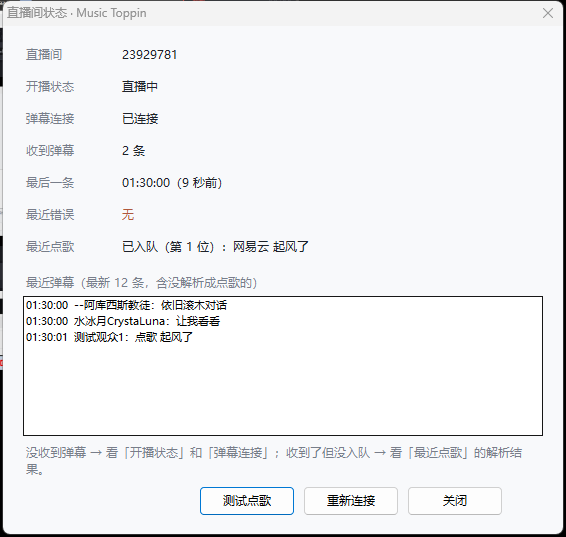
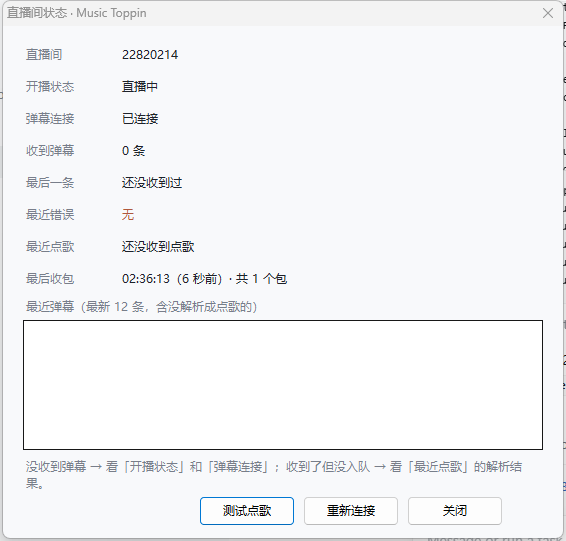
feat: 直播间状态显示最后收包/协议包数 + 命令类型日志（v1.2.2）
- LiveStatusForm 增加「最后收包」行（时间 + 距今年龄 + 协议包总数），区分假死连接和安静房间
- DanmakuClient 增加 PacketCount / LastPacketUtc
- 日志记录首次出现的弹幕命令类型（danmaku cmd: …），便于排查「已连接但收不到弹幕」
- 版本 1.2.2

diff --git a/src/MusicToppin/LiveStatusForm.cs b/src/MusicToppin/LiveStatusForm.cs
@@ -11,6 +11,8 @@ internal sealed class LiveStatusSnapshot
     public DateTime LastMessageUtc;
     public string LastError = "";
     public string LastRequestResult = "";
+    public DateTime LastPacketUtc;
+    public int PacketCount;
     public List<string> Recent = new List<string>();
 }
 
@@ -32,6 +34,7 @@ internal sealed class LiveStatusForm : Form
     private readonly Label _last;
     private readonly Label _error;
     private readonly Label _request;
+    private readonly Label _packet;
     private readonly ListBox _recent;
 
     private int _lastRecentCount = -1;
@@ -44,7 +47,7 @@ internal sealed class LiveStatusForm : Form
         _testPlay = testPlay;
 
         Text = "直播间状态 · Music Toppin";
-        ClientSize = new Size(560, 508);
+        ClientSize = new Size(560, 512);
         FormBorderStyle = FormBorderStyle.FixedDialog;
         MaximizeBox = false;
         MinimizeBox = false;
@@ -61,11 +64,12 @@ internal sealed class LiveStatusForm : Form
         _error = AddRow("最近错误", 5);
         _error.ForeColor = Color.FromArgb(176, 88, 60);
         _request = AddRow("最近点歌", 6);
+        _packet = AddRow("最后收包", 7);
 
         var recentLabel = new Label
         {
             Text = "最近弹幕（最新 12 条，含没解析成点歌的）",
-            Location = new Point(20, 248),
+            Location = new Point(20, 272),
             Size = new Size(480, 20),
             ForeColor = Color.FromArgb(120, 126, 138)
         };
@@ -73,8 +77,8 @@ internal sealed class LiveStatusForm : Form
 
         _recent = new ListBox
         {
-            Location = new Point(20, 270),
-            Size = new Size(520, 140),
+            Location = new Point(20, 294),
+            Size = new Size(520, 130),
             Font = new Font("Microsoft YaHei UI", 8.5f),
             BorderStyle = BorderStyle.FixedSingle,
             IntegralHeight = false
@@ -85,7 +89,7 @@ internal sealed class LiveStatusForm : Form
         {
             Text = "没收到弹幕 → 看「开播状态」和「弹幕连接」；收到了但没入队 → 看「最近点歌」的解析结果。\n" +
                    "「测试点歌」会在本地模拟发一条「点歌 起风了」，用来单独验证播放链路。",
-            Location = new Point(20, 418),
+            Location = new Point(20, 432),
             Size = new Size(520, 34),
             ForeColor = Color.FromArgb(120, 126, 138)
         };
@@ -94,7 +98,7 @@ internal sealed class LiveStatusForm : Form
         var test = new Button
         {
             Text = "测试点歌",
-            Location = new Point(196, 460),
+            Location = new Point(196, 470),
             Size = new Size(96, 30),
             FlatStyle = FlatStyle.System
         };
@@ -103,7 +107,7 @@ internal sealed class LiveStatusForm : Form
         var reconnectButton = new Button
         {
             Text = "重新连接",
-            Location = new Point(300, 460),
+            Location = new Point(300, 470),
             Size = new Size(96, 30),
             FlatStyle = FlatStyle.System
         };
@@ -112,7 +116,7 @@ internal sealed class LiveStatusForm : Form
         var close = new Button
         {
             Text = "关闭",
-            Location = new Point(404, 460),
+            Location = new Point(404, 470),
             Size = new Size(96, 30),
             FlatStyle = FlatStyle.System,
             DialogResult = DialogResult.Cancel
@@ -177,6 +181,16 @@ internal sealed class LiveStatusForm : Form
 
         _error.Text = string.IsNullOrWhiteSpace(s.LastError) ? "无" : s.LastError;
         _request.Text = string.IsNullOrWhiteSpace(s.LastRequestResult) ? "还没收到点歌" : s.LastRequestResult;
+
+        if (s.LastPacketUtc == DateTime.MinValue)
+        {
+            _packet.Text = "还没收到过";
+        }
+        else
+        {
+            var age = Math.Max(0, (int)(DateTime.UtcNow - s.LastPacketUtc).TotalSeconds);
+            _packet.Text = s.LastPacketUtc.ToLocalTime().ToString("HH:mm:ss") + "（" + age + " 秒前）· 共 " + s.PacketCount + " 个包";
+        }
 
         // 最近弹幕：只在变化时重建，避免每秒闪
         if (s.Recent.Count != _lastRecentCount)

diff --git a/src/MusicToppin/Danmaku.cs b/src/MusicToppin/Danmaku.cs
@@ -370,6 +370,12 @@ internal sealed class DanmakuClient : IDisposable
 
     /// <summary>最后收到任意协议包的时间（用来判断半开连接）。</summary>
     public DateTime LastPacketUtc { get; private set; }
+
+    /// <summary>收到的协议包总数（心跳/popularity 也算）。</summary>
+    public int PacketCount { get { return Volatile.Read(ref _packetCount); } }
+
+    private int _packetCount;
+    private readonly HashSet<string> _seenCommands = new HashSet<string>(StringComparer.Ordinal);
     public bool IsConnected { get { return _connected; } }
     public int MessageCount { get { return Volatile.Read(ref _messageCount); } }
     private int _generation;
@@ -559,6 +565,7 @@ internal sealed class DanmakuClient : IDisposable
                     if (result.Count <= 0) continue;
 
                     LastPacketUtc = DateTime.UtcNow;
+                    Interlocked.Increment(ref _packetCount);
                     for (var i = 0; i < result.Count; i++) pending.Add(buffer[i]);
 
                     DanmakuPacket packet;
@@ -731,7 +738,6 @@ internal sealed class DanmakuClient : IDisposable
         if (body == null || body.Length == 0) return;
 
         var text = Encoding.UTF8.GetString(body);
-        if (text.IndexOf("DANMU_MSG", StringComparison.Ordinal) < 0) return;
 
         JsonValue root;
         try
@@ -745,7 +751,16 @@ internal sealed class DanmakuClient : IDisposable
         }
 
         var message = DanmakuProtocol.ParseDanmaku(root);
-        if (message == null) return;
+        if (message == null)
+        {
+            // 记录出现过的命令类型，排查「连上了但收不到弹幕」
+            var cmd = root != null && root["cmd"] != null ? root["cmd"].AsString : "";
+            if (!string.IsNullOrEmpty(cmd) && _seenCommands.Add(cmd))
+            {
+                Logger.Write("danmaku cmd: " + cmd);
+            }
+            return;
+        }
 
         LastMessageUtc = DateTime.UtcNow;
         Interlocked.Increment(ref _messageCount);

diff --git a/src/MusicToppin/TrayApp.cs b/src/MusicToppin/TrayApp.cs
@@ -1498,6 +1498,8 @@ internal sealed class TrayApp : ApplicationContext
             Running = client != null && client.IsRunning,
             MessageCount = client != null ? client.MessageCount : 0,
             LastMessageUtc = client != null ? client.LastMessageUtc : DateTime.MinValue,
+            LastPacketUtc = client != null ? client.LastPacketUtc : DateTime.MinValue,
+            PacketCount = client != null ? client.PacketCount : 0,
             LastError = client != null ? client.LastError : "",
             LastRequestResult = _lastRequestResult,
             Recent = new List<string>(_recentDanmaku)

diff --git a/src/MusicToppin/VersionInfo.cs b/src/MusicToppin/VersionInfo.cs
@@ -6,6 +6,6 @@ using System.Reflection;
 [assembly: AssemblyCompany("Music Toppin")]
 [assembly: AssemblyDescription("直播用「正在播放」悬浮窗")]
 [assembly: AssemblyCopyright("Copyright © 2026")]
-[assembly: AssemblyVersion("1.2.1.0")]
-[assembly: AssemblyFileVersion("1.2.1.0")]
-[assembly: AssemblyInformationalVersion("1.2.1")]
+[assembly: AssemblyVersion("1.2.2.0")]
+[assembly: AssemblyFileVersion("1.2.2.0")]
+[assembly: AssemblyInformationalVersion("1.2.2")]

diff --git a/installer/Installer.cs b/installer/Installer.cs
@@ -12,7 +12,7 @@ internal static class Program
 {
     internal const string AppName = "Music Toppin";
     internal const string AppExe = "MusicToppin.exe";
-    internal const string Version = "1.2.1";
+    internal const string Version = "1.2.2";
 
     private const string UninstallKey = @"Software\Microsoft\Windows\CurrentVersion\Uninstall\MusicToppin";
 

diff --git a/CHANGELOG.md b/CHANGELOG.md
@@ -1,5 +1,12 @@
 # Changelog
 
+## v1.2.2（2026-11-26）
+
+### 改进
+
+- 直播间状态窗口增加「**最后收包**」和协议包总数：能区分「连接死了」和「房间没人说话」；正常房间 15 秒内应有包
+- 日志增加 `danmaku cmd:`：第一次收到某种命令时记录（DANMU_MSG / INTERACT_WORD / ONLINE_RANK 等），便于排查收不到弹幕
+
 ## v1.2.1（2026-11-26）
 
 ### 修复
